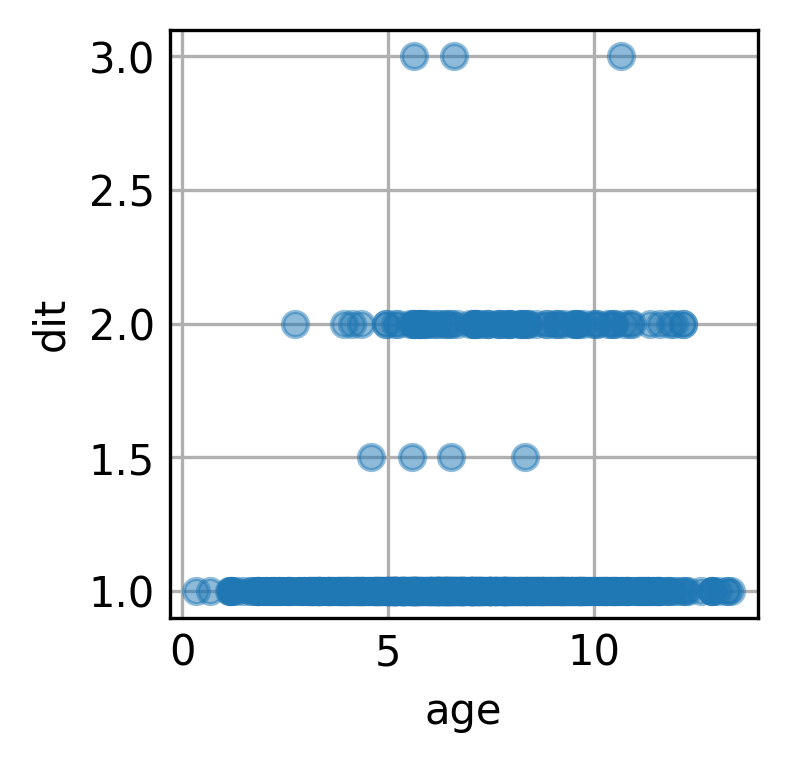
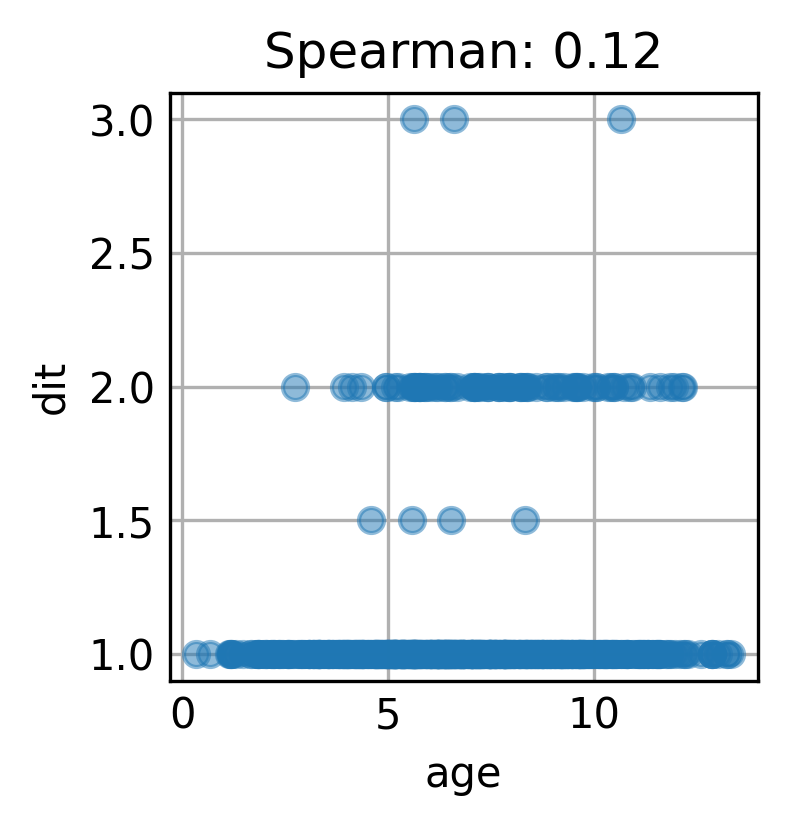
add spearman coefficient

diff --git a/gen_scatter_plot.py b/gen_scatter_plot.py
@@ -2,6 +2,7 @@ import os
 from datetime import datetime as dt
 
 import matplotlib.pyplot as plt
+import scipy.stats as stats
 import pandas as pd
 
 QUALITY_COLUMNS = ['cbo', 'dit', 'lcom']
@@ -33,10 +34,13 @@ for quality_column in QUALITY_COLUMNS:
         fig, ax = plt.subplots()
         x = df[metric_column]
         y = df[quality_column]
+        spearman = stats.spearmanr(x, y)
+        title = 'Spearman: ' + str(round(spearman[0],2))
         ax.scatter(x, y, alpha=0.5)
         ax.set(
             xlabel=metric_column,
-            ylabel=quality_column
+            ylabel=quality_column,
+            title=title,
         )
         plt.savefig(f'plots/{metric_column}_{quality_column}.png', dpi=300, bbox_inches='tight')
         plt.close()
